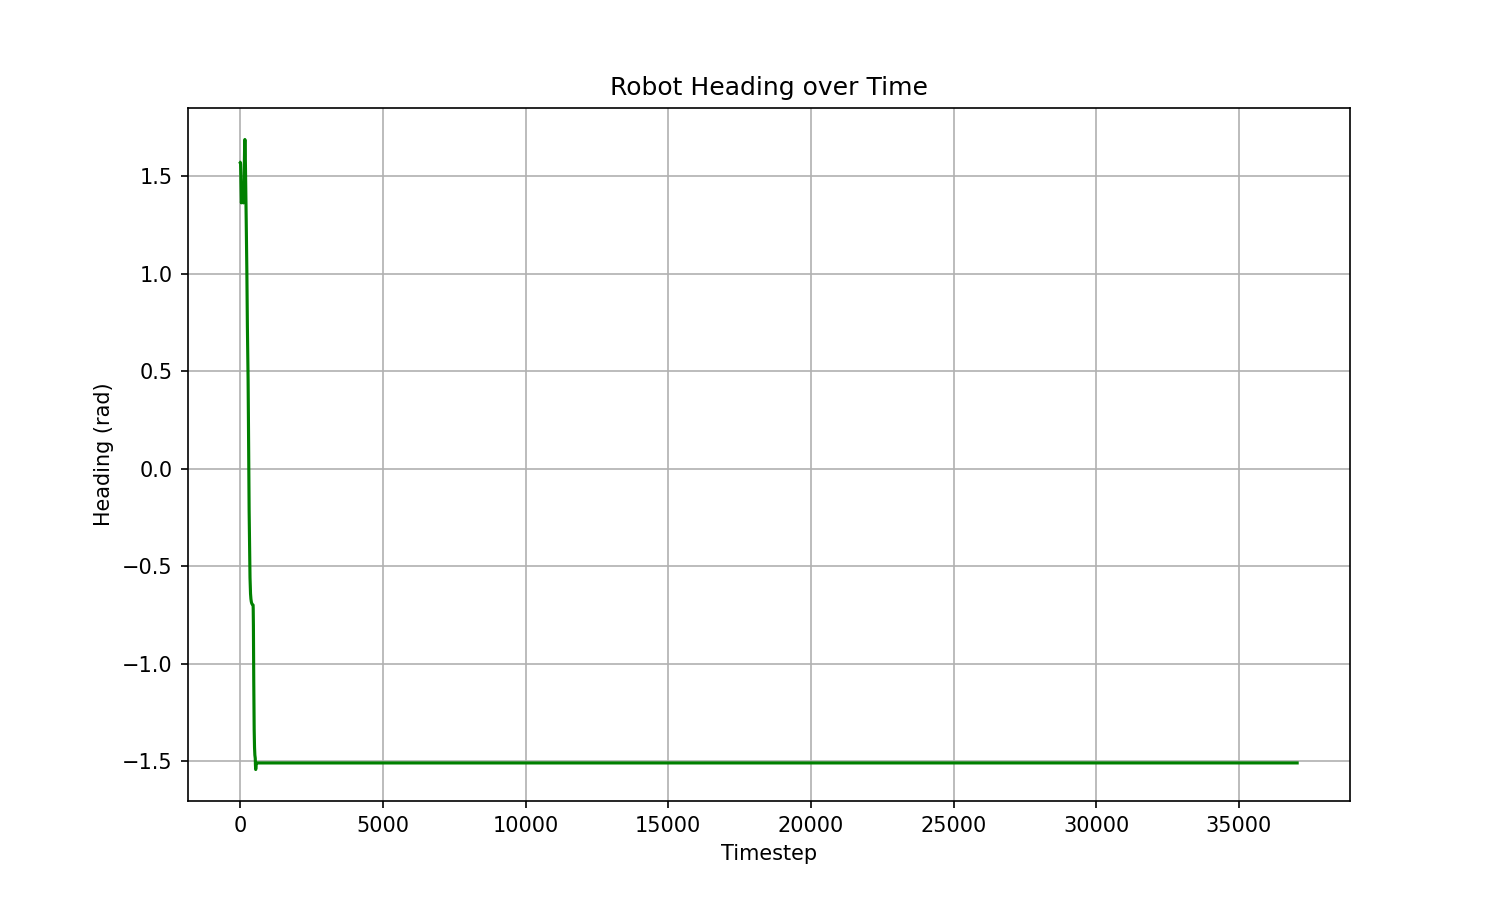
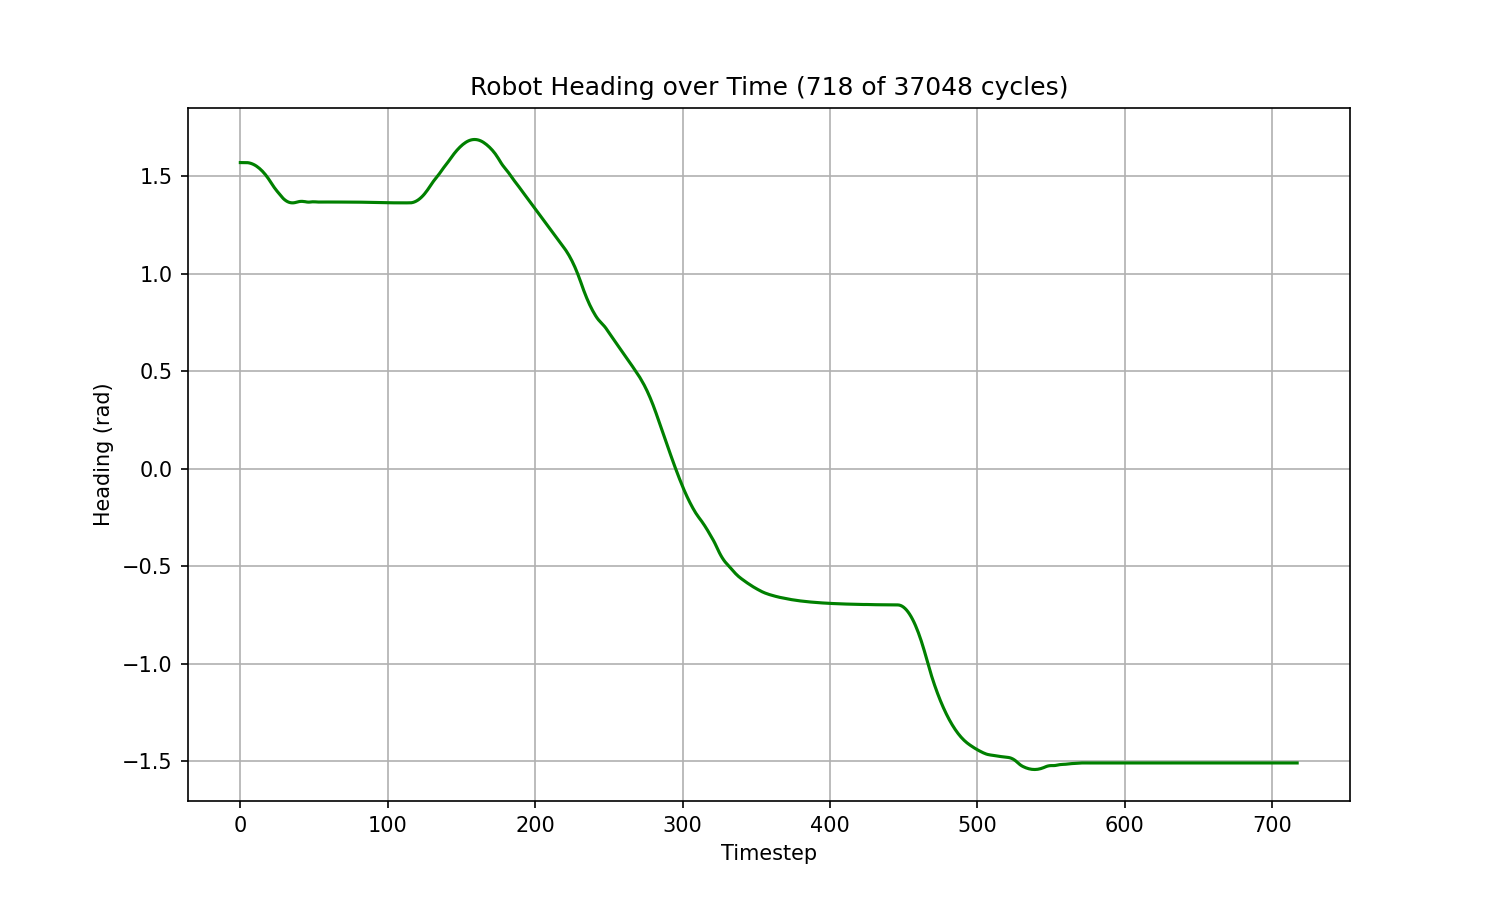
Lab 8 - truncate plots to actual robot movement

diff --git a/Lab_8/plot_velocity.py b/Lab_8/plot_velocity.py
@@ -10,18 +10,24 @@ with open('data/robotVelData.csv') as f:
             linear_vel.append(float(parts[1]))
             angular_vel.append(float(parts[2]))
 
+# truncate at last meaningful movement
+last = len(linear_vel) - 1
+while last > 10 and abs(linear_vel[last]) < 0.001:
+    last -= 1
+last = min(last + 50, len(linear_vel))
+
 fig, (ax1, ax2) = plt.subplots(2, 1, figsize=(10, 8))
 
-ax1.plot(timestep, linear_vel, 'r-', linewidth=1.5)
+ax1.plot(timestep[:last], linear_vel[:last], 'r-', linewidth=1.5)
 ax1.set_ylabel('Linear velocity (m/s)')
-ax1.set_title('Robot Velocities')
+ax1.set_title(f'Robot Velocities ({last} of {len(linear_vel)} cycles)')
 ax1.grid(True)
 
-ax2.plot(timestep, angular_vel, 'b-', linewidth=1.5)
+ax2.plot(timestep[:last], angular_vel[:last], 'b-', linewidth=1.5)
 ax2.set_xlabel('Timestep')
 ax2.set_ylabel('Angular velocity (rad/s)')
 ax2.grid(True)
 
 plt.tight_layout()
 plt.savefig('data/robot_velocity.png', dpi=150)
-print('Velocity plot saved')
+print(f'Velocity plot saved ({last} of {len(linear_vel)} points)')

diff --git a/Lab_8/plot_laser_map.py b/Lab_8/plot_laser_map.py
@@ -17,9 +17,15 @@ with open('data/robotTrajData.csv') as f:
             x_rob.append(float(parts[0]))
             y_rob.append(float(parts[1]))
 
+# truncate robot trajectory at plateau
+last = len(x_rob) - 1
+while last > 100 and abs(x_rob[last] - x_rob[last-100]) < 0.001 and abs(y_rob[last] - y_rob[last-100]) < 0.001:
+    last -= 1
+last = min(last + 50, len(x_rob))
+
 plt.figure(figsize=(10, 8))
 plt.scatter(x_map, y_map, s=1, c='red', label='Laser points')
-plt.plot(x_rob, y_rob, 'b-', linewidth=2, label='Robot trajectory')
+plt.plot(x_rob[:last], y_rob[:last], 'b-', linewidth=2, label='Robot trajectory')
 plt.xlabel('X (m)')
 plt.ylabel('Y (m)')
 plt.title('Laser-Based Environment Map')
@@ -27,4 +33,4 @@ plt.grid(True)
 plt.axis('equal')
 plt.legend()
 plt.savefig('data/laser_map.png', dpi=150)
-print('Map saved')
+print(f'Map saved ({last} of {len(x_rob)} trajectory points)')

diff --git a/Lab_8/plot_heading.py b/Lab_8/plot_heading.py
@@ -9,11 +9,17 @@ with open('data/robotHeadingData.csv') as f:
             timestep.append(float(parts[0]))
             heading.append(float(parts[1]))
 
+# truncate at plateau (heading stable for 100 steps)
+last = len(heading) - 1
+while last > 100 and abs(heading[last] - heading[last-100]) < 0.001:
+    last -= 1
+last = min(last + 50, len(heading))
+
 plt.figure(figsize=(10, 6))
-plt.plot(timestep, heading, 'g-', linewidth=1.5)
+plt.plot(timestep[:last], heading[:last], 'g-', linewidth=1.5)
 plt.xlabel('Timestep')
 plt.ylabel('Heading (rad)')
-plt.title('Robot Heading over Time')
+plt.title(f'Robot Heading over Time ({last} of {len(heading)} cycles)')
 plt.grid(True)
 plt.savefig('data/robot_heading.png', dpi=150)
-print('Heading plot saved')
+print(f'Heading plot saved ({last} of {len(heading)} points)')

diff --git a/Lab_8/plot_trajectory.py b/Lab_8/plot_trajectory.py
@@ -9,12 +9,18 @@ with open('data/robotTrajData.csv') as f:
             x.append(float(parts[0]))
             y.append(float(parts[1]))
 
+# find plateau: truncate where last 100 points are within 0.001 of each other
+last = len(x) - 1
+while last > 100 and abs(x[last] - x[last-100]) < 0.001 and abs(y[last] - y[last-100]) < 0.001:
+    last -= 1
+last = min(last + 50, len(x))
+
 plt.figure(figsize=(10, 8))
-plt.plot(x, y, 'b-', linewidth=2)
+plt.plot(x[:last], y[:last], 'b-', linewidth=2)
 plt.xlabel('X (m)')
 plt.ylabel('Y (m)')
 plt.title('Robot Trajectory')
 plt.grid(True)
 plt.axis('equal')
 plt.savefig('data/robot_trajectory.png', dpi=150)
-print('Trajectory plot saved')
+print(f'Trajectory plot saved ({last} of {len(x)} points)')
